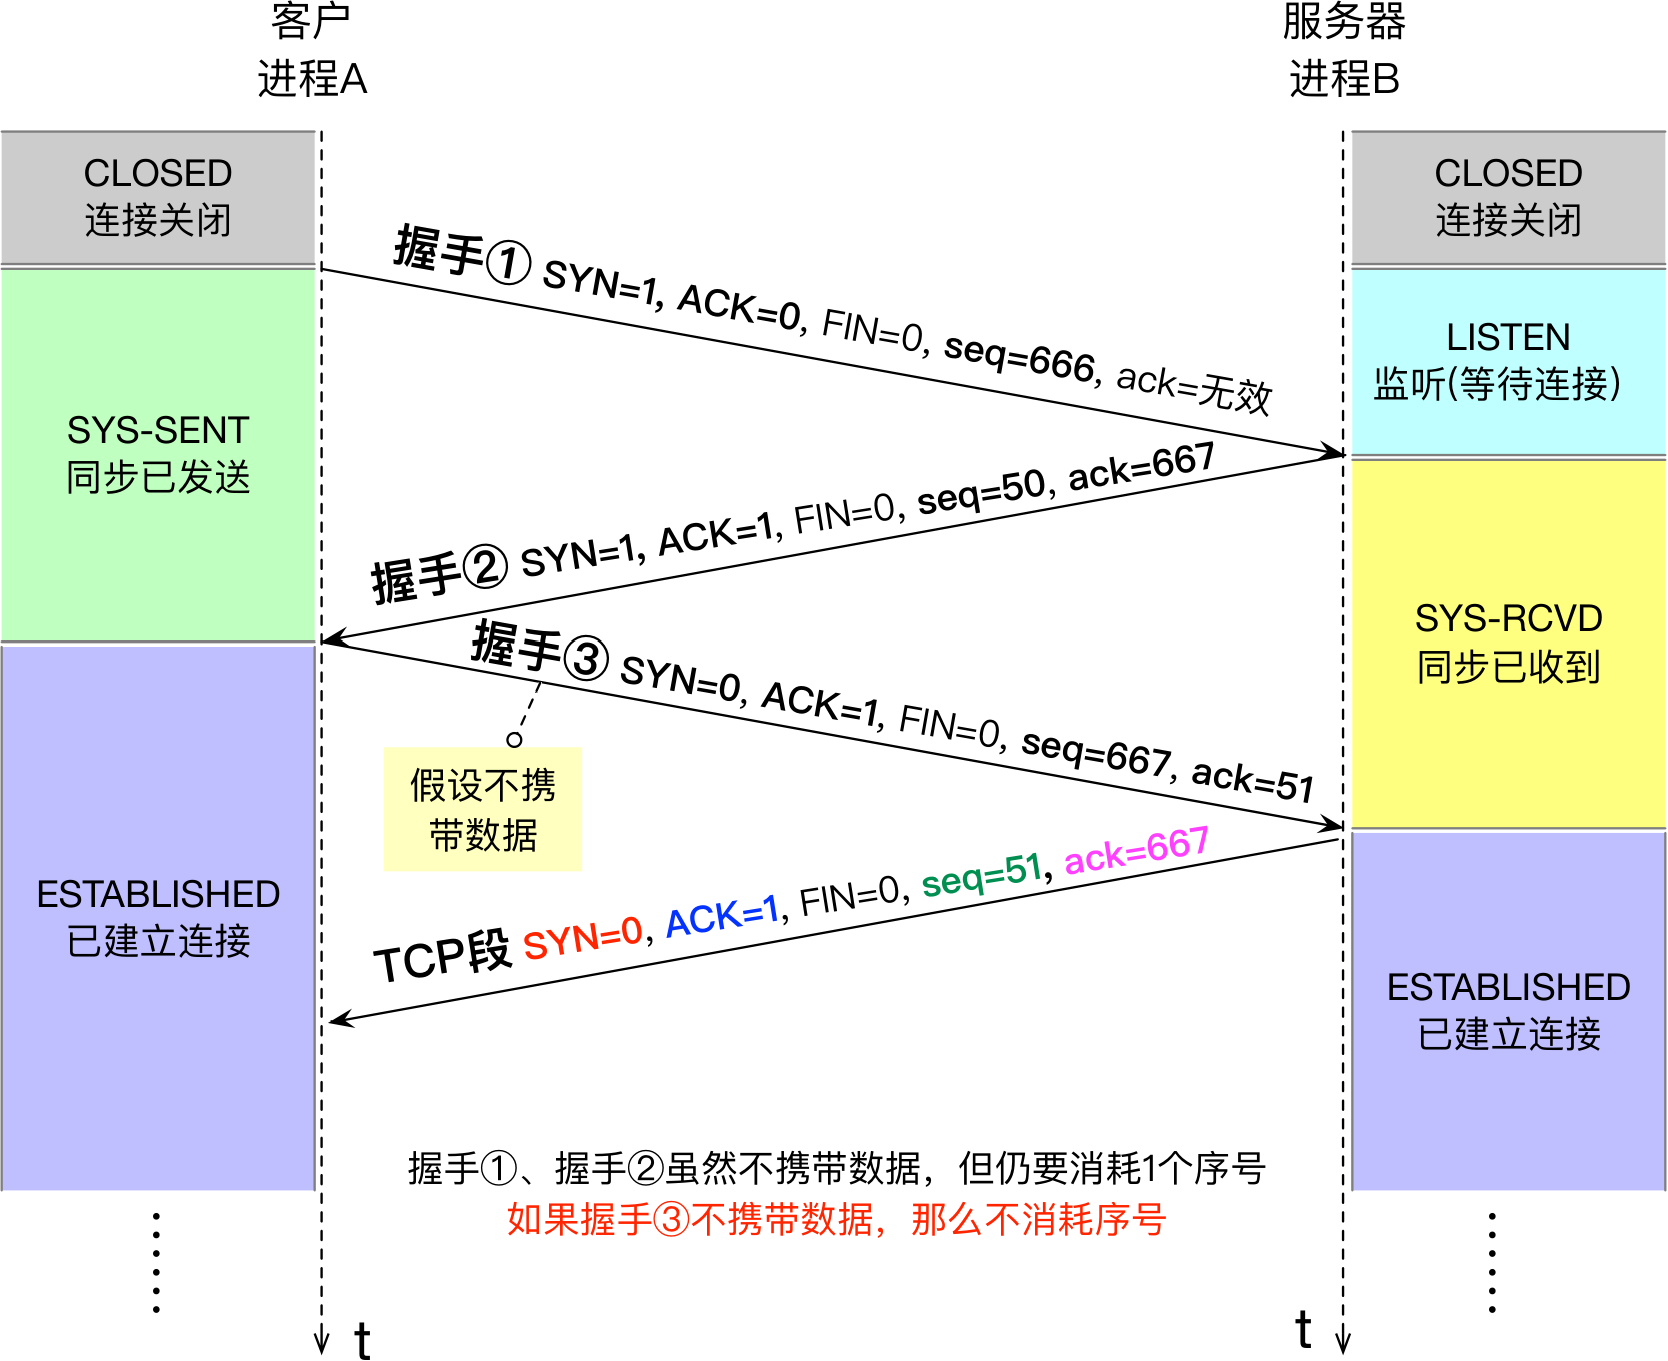
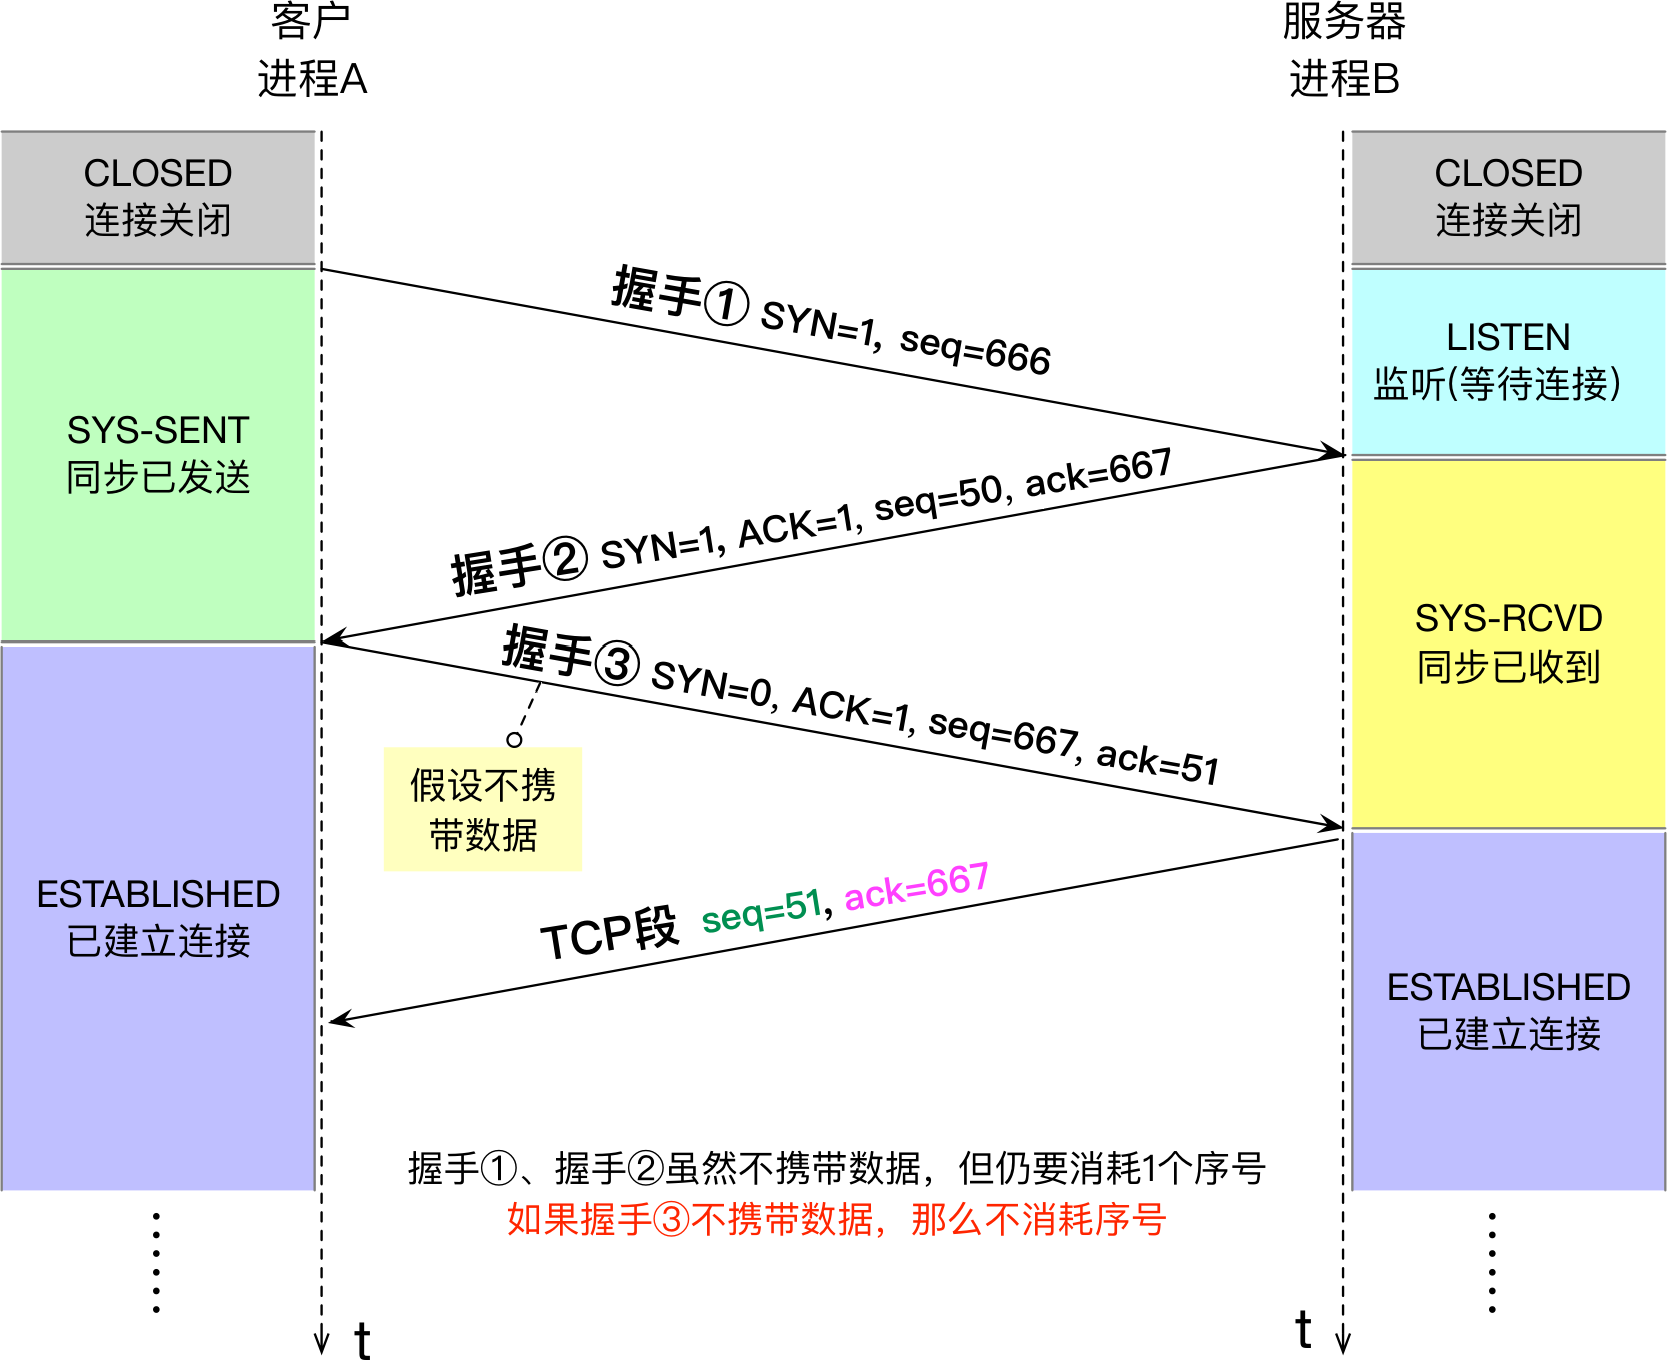
408/2-计算机组成原理.md 06/26

diff --git a/.vitepress/theme/components/table-head.vue b/.vitepress/theme/components/table-head.vue
@@ -1,0 +1,11 @@
+<template>
+  <span class="table-head">
+    <strong><slot /></strong>
+  </span>
+</template>
+
+<style scoped>
+.table-head {
+  color: var(--vp-c-text-2);
+}
+</style>

diff --git a/.vitepress/theme/index.ts b/.vitepress/theme/index.ts
@@ -12,6 +12,7 @@ import question from "./components/question.vue";
 import super_add from "./components/super-add.vue";
 import super_emphasis from "./components/super-emphasis.vue";
 import super_warning from "./components/super-warning.vue";
+import table_head from "./components/table-head.vue";
 import tip from "./components/tip.vue";
 import warning from "./components/warning.vue";
 
@@ -32,6 +33,7 @@ export default {
     app.component("sadd", super_add);
     app.component("semp", super_emphasis);
     app.component("swarn", super_warning);
+    app.component("thd", table_head);
     app.component("tip", tip);
     app.component("warn", warning);
   },

diff --git a/.vitepress/theme/style.css b/.vitepress/theme/style.css
@@ -155,7 +155,7 @@
     --tip-bg: #cce5ff;
     --tip-color: #0d47a1;
     --warning-bg: #ffcccc;
-    --vp-font-family-question: "Times New Roman", "楷体", "STKaiti";
+    --vp-font-family-question: "Times New Roman", "楷体";
 }
 
 .dark {

diff --git a/docs/408/2-计算机组成原理.md b/docs/408/2-计算机组成原理.md
@@ -833,17 +833,17 @@ Cache行数 × Cache一行容量
 | move eax, ebx / move byte ptr [var], 5        | 将ebx内容写入eax / 将5写存地址var字长byte        |
 | push eax / push [var]                         | 将eax内容压栈 / 将地址var的内容压栈，栈帧数据默认4B |
 | pop eax / pop [var]                           | 弹栈放入eax / 弹栈放入地址var处                  |
-| **<span style="color:#67676c;">算术运算指令</span>**   | **<span style="color:#67676c;">含义</span>**         |
+| <tbhd>算术运算指令</tbhd>   | <tbhd>含义</tbhd>         |
 | add d, s / sub d, s                           | d加s、d减s，结果存入d                           |
 | mul d, s / imul d, s / imul m, d, s           | d无符号乘s，结果存入d；d有符号乘s，结果存入d / m    |
 | div s / idiv s                                | 除数为s，被除数为edx:eax的64位组合                |
-| **<span style="color:#67676c;">二进制运算指令</span>** | **<span style="color:#67676c;">含义</span>**          |
+| <tbhd>二进制运算指令</tbhd> | <tbhd>含义</tbhd>          |
 | neg d / inc d / dec d                         | d取反、d自增、d自减                              |
 | shl d, s / shr d, s                           | d逻辑左移s位，d逻辑右移s位                        |
-| **<span style="color:#67676c;">逻辑运算指令</span>**   | **<span style="color:#67676c;">含义</span>**          |
+| <tbhd>逻辑运算指令</tbhd>   | <tbhd>含义</tbhd>          |
 | and d, s / or d, s / not d                    | d和s逐位与，d和s逐位或，d逐位取反，结果放入d        |
 | xor d, s                                      | d逐位异或，结果放入d                             |
-| **<span style="color:#67676c;">控制流指令</span>**     | **<span style="color:#67676c;">含义</span>**         |
+| <tbhd>控制流指令</tbhd>     | <tbhd>含义</tbhd>         |
 | cmp eax, 10                                   | 执行减法，不存结果，仅更新标志位，以供转移指令使用    |
 | test eax, 10                                  | 执行按位与，不存结果，仅更新标志位，以供转移指令使用  |
 
@@ -855,7 +855,7 @@ Cache行数 × Cache一行容量
 | jmp [128]                                   | 跳转到主存188地址中所保存的位置                |
 | jmp .L1                                     | 跳转到.L1标记位置                           |
 | call / ret                                  | call跳转到函数入口，ret返回call指令的下一条指令 |
-| **<span style="color:#67676c;">条件转移指令</span>** | **<span style="color:#67676c;">含义</span>**      |
+| <tbhd>条件转移指令</tbhd> | <tbhd>含义</tbhd>      |
 | je / jne                                    | jump if equal / if not equal              |
 | jz / jne                                    | jump if zero / if not zero                |
 | jg / jge                                    | jump if greater / if greater or equal     |

diff --git a/docs/408/3-操作系统.md b/docs/408/3-操作系统.md
@@ -106,7 +106,7 @@
 | 父子进程                                        | 一对多关系，子进程继承了父进程的一些属性和资源，可以执行不同的代码。<br/>父子进程是两个独立的进程，父进程终止不必然导致子进程终止 |
 | 闲逛进程                                        | 特殊系统进程，负责无任务时占用CPU，保持系统稳定性。<br/>优先级最低，无实际业务，不可被终止 |
 | 进程和作业                                      | 作业是用户提交给系统的任务，作业通常包括几个进程                                      |
-| **<span style="color:#67676c;">线程的基本概念</span>**  | **<span style="color:#67676c;">内容</span>**                                         |
+| <tbhd>线程的基本概念</tbhd>  | <tbhd>内容</tbhd>                                         |
 | 包含关系                                        | 线程是进程内部的执行流，一个进程可以拥有多个线程                                      |
 | 调度单位                                        | 进程是资源分配的基本单位，线程是CPU调度的基本单位                                     |
 | 并发执行                                        | 线程和线程之间可以并发执行，无关乎所属进程                                           |
@@ -1092,7 +1092,7 @@ void philosopher_i(){
 | -------------------------------------------- | --------------------------------------------------------- |
 | 一次性                                        | 作业必须一次性装入内存才能运行，若作业很大或内存不足则不能运行。     |
 | 驻留性                                        | 直至运行结束之前作业必须全部驻留内存，即使是不再使用的部分。        |
-| **<span style="color:#67676c;">虚拟内存管理</span>**  | **<span style="color:#67676c;">特点</span>**                     |
+| <tbhd>虚拟内存管理</tbhd>  | <tbhd>特点</tbhd>                     |
 | 多次性                                        | 只需装入目前所需部分即可运行。运行到未调入的部分，再将其调入。      |
 | 对换性                                        | 允许作业运行过程中，将暂不使用的页面换出至外存，待需要时再换进内存。 |
 | 虚拟性                                        | 逻辑上扩充了内存容量，用户感受远大于实际容量。                   |